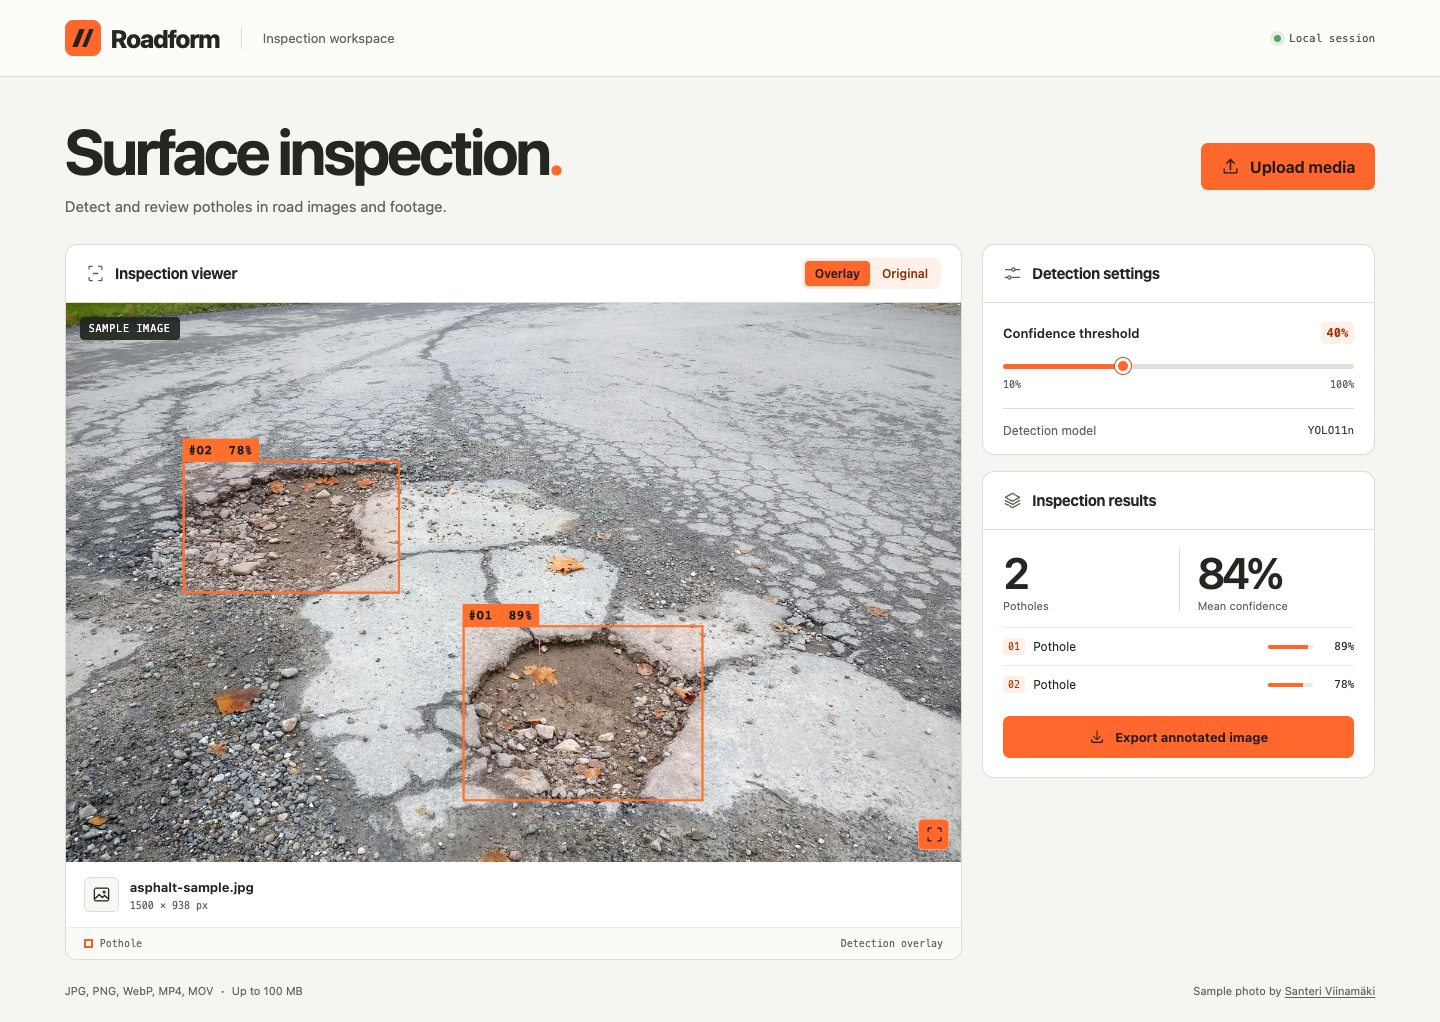
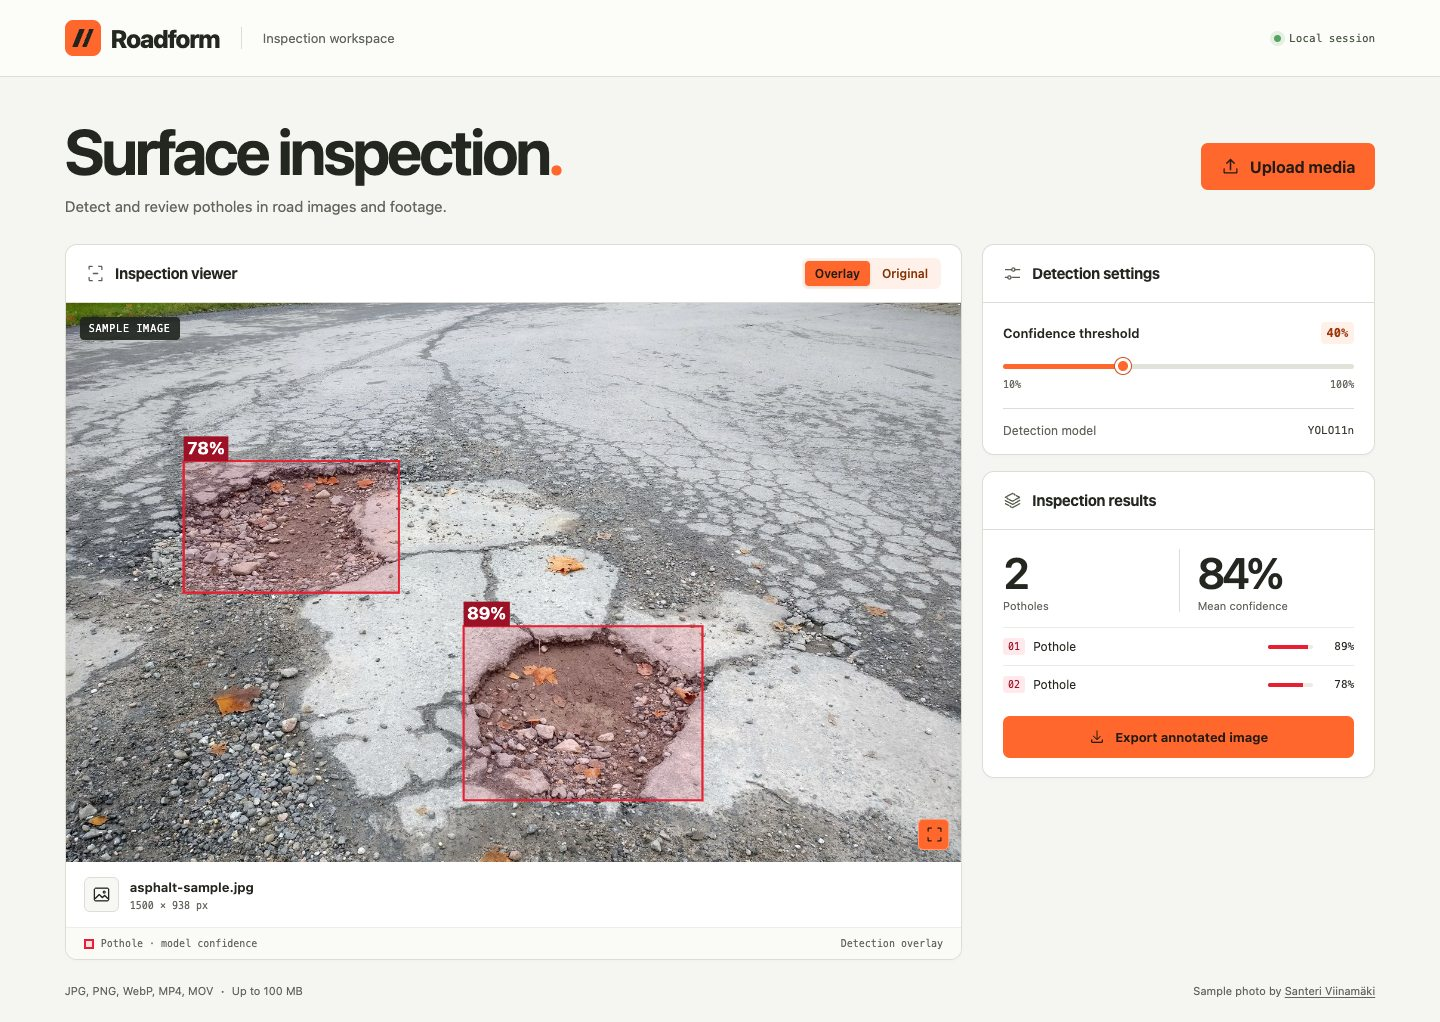
Show confidence on red pothole highlights in images and video

diff --git a/static/style.css b/static/style.css
@@ -25,12 +25,14 @@ body{margin:0}button,input{font:inherit}button{cursor:pointer}button:focus-visib
 .layout{display:grid;grid-template-columns:minmax(0,1fr) minmax(285px,30%);gap:20px;align-items:start}.card{background:#fff;border:1px solid var(--line);border-radius:12px;overflow:hidden;box-shadow:0 2px 3px #24272004}.panel-head{display:flex;align-items:center;justify-content:space-between;min-height:58px;padding:12px 20px;gap:12px;border-bottom:1px solid var(--line)}h2{display:flex;align-items:center;gap:10px;font-size:15px;letter-spacing:-.025em;font-weight:680;margin:0}.panel-head .icon{color:#596051}.segmented{background:#fff1e9;border-radius:6px;padding:3px;display:flex;gap:2px}.segmented button{padding:5px 10px;border:0;border-radius:4px;background:transparent;color:var(--orange-ink);font-size:12px;font-weight:600}.segmented button[aria-pressed=true]{color:var(--button-ink);background:var(--orange);box-shadow:0 1px 3px #20261f26}
 .stage{position:relative;background:#20251f;aspect-ratio:1.60;display:grid;place-items:center;overflow:hidden}.stage canvas,.stage video{display:block;width:100%;height:100%;object-fit:contain;position:absolute;inset:0}.sample-tag{position:absolute;background:#20251eea;color:#fff}.sample-tag{left:14px;top:14px;font:10px var(--mono);text-transform:uppercase;letter-spacing:.08em;padding:6px 9px;border-radius:4px}.full{position:absolute;background:var(--orange);color:var(--button-ink);right:12px;bottom:12px;display:grid;place-items:center;width:31px;height:31px;border:1px solid #ffffff52;border-radius:5px}.stage:fullscreen{width:100%;height:100%;background:#111}.stage:has(video:not([hidden])) .full{top:12px;bottom:auto}
 #busy{position:absolute;padding:10px 16px;background:#20251fee;color:#fff;border-radius:5px;font-size:13px}.source{display:flex;align-items:center;gap:11px;padding:15px 18px}.source>div{min-width:0}.file-icon{width:35px;height:35px;display:grid;place-items:center;border:1px solid var(--line);border-radius:6px;background:#f7f8f3}.source strong,.source span#dimensions{display:block}.source strong{font-size:13px;font-weight:650;overflow-wrap:anywhere}.source #dimensions{font:10px var(--mono);color:var(--muted);margin-top:5px}.text-button{margin-left:auto;flex:none;background:transparent;color:var(--orange-ink);border:0;text-decoration:underline;text-underline-offset:3px;font-size:12px}
-.viewer-foot{border-top:1px solid #eceee6;background:#fafbf7;display:flex;justify-content:space-between;align-items:center;padding:10px 18px;font:10px var(--mono);color:var(--muted)}.viewer-foot span:first-child{display:flex;align-items:center;gap:7px}.orange-square{width:9px;height:9px;border:2px solid #ee632a}
+.viewer-foot{border-top:1px solid #eceee6;background:#fafbf7;display:flex;justify-content:space-between;align-items:center;padding:10px 18px;font:10px var(--mono);color:var(--muted)}.viewer-foot span:first-child{display:flex;align-items:center;gap:7px}.detection-swatch{width:10px;height:10px;border:2px solid #e61f32;background:#fbdfe2}
 aside{display:grid;gap:16px}.setting-content{padding:19px 20px 16px}.label-row,.model,.scale{display:flex;align-items:center;justify-content:space-between}.label-row label{font-size:13px;font-weight:600}.label-row output{font:600 12px var(--mono);color:#9b370d;background:#fff0e8;border-radius:4px;padding:4px 6px}
 input[type=range]{appearance:none;width:100%;height:5px;border-radius:5px;background:linear-gradient(to right,var(--orange) var(--fill,33.33%),#e1e3db var(--fill,33.33%));margin:20px 0 10px;padding:0;display:block;cursor:pointer}
 input[type=range]::-webkit-slider-thumb{appearance:none;width:16px;height:16px;border:3px solid #fff;background:var(--orange);border-radius:50%;box-shadow:0 0 0 1px #d15320}
 input[type=range]::-moz-range-thumb{width:11px;height:11px;border:3px solid white;border-radius:50%;background:var(--orange);box-shadow:0 0 0 1px #d15320}
 .scale{font:10px var(--mono);color:var(--muted)}.model{margin-top:18px;padding-top:14px;border-top:1px solid var(--line);font-size:12px;color:var(--muted)}.model code{font:11px var(--mono);color:#353c30}.settings .wide{margin-top:14px}
-.stats{display:grid;grid-template-columns:1fr 1fr;padding:19px 20px 15px}.stats>div+div{border-left:1px solid var(--line);padding-left:18px}.stats strong,.stats span{display:block}.stats strong{font-size:clamp(31px,3vw,45px);line-height:1.1;letter-spacing:-.07em;font-weight:580;font-variant-numeric:tabular-nums}.stats span{font-size:11px;color:var(--muted);margin-top:3px}.detections{margin:0 20px;max-height:190px;overflow:auto}.detection{display:grid;grid-template-columns:auto 1fr 45px 33px;gap:8px;align-items:center;padding:10px 0;border-top:1px solid #e9ebe4;font-size:12px}.detection code{font:10px var(--mono);color:#9e3b12;background:#fff0e7;border-radius:3px;padding:3px 5px}.bar{height:4px;background:#eeeae4;border-radius:2px;overflow:hidden}.bar i{display:block;background:var(--orange);height:100%}.detection small{text-align:right;font:11px var(--mono)}.note{font-size:12px;color:var(--muted);line-height:1.5}.export-wrap{padding:13px 20px 19px}footer{margin:24px 0;display:flex;gap:12px;justify-content:space-between;font-size:11px;color:var(--muted)}footer b{margin:0 4px}a{color:inherit;text-underline-offset:2px}#notice{padding:12px 14px;background:#fff1e7;border:1px solid #ecba9a;border-radius:6px;font-size:14px}
+.stats{display:grid;grid-template-columns:1fr 1fr;padding:19px 20px 15px}.stats>div+div{border-left:1px solid var(--line);padding-left:18px}.stats strong,.stats span{display:block}.stats strong{font-size:clamp(31px,3vw,45px);line-height:1.1;letter-spacing:-.07em;font-weight:580;font-variant-numeric:tabular-nums}.stats span{font-size:11px;color:var(--muted);margin-top:3px}.detections{margin:0 20px;max-height:190px;overflow:auto}.detection{display:grid;grid-template-columns:auto 1fr 45px 33px;gap:8px;align-items:center;padding:10px 0;border-top:1px solid #e9ebe4;font-size:12px}.detection code{font:10px var(--mono);color:#9c1125;background:#ffe9ec;border-radius:3px;padding:3px 5px}.bar{height:4px;background:#eeeae4;border-radius:2px;overflow:hidden}.bar i{display:block;background:#e61f32;height:100%}.detection small{text-align:right;font:11px var(--mono)}.note{font-size:12px;color:var(--muted);line-height:1.5}.export-wrap{padding:13px 20px 19px}footer{margin:24px 0;display:flex;gap:12px;justify-content:space-between;font-size:11px;color:var(--muted)}footer b{margin:0 4px}a{color:inherit;text-underline-offset:2px}#notice{padding:12px 14px;background:#fff1e7;border:1px solid #ecba9a;border-radius:6px;font-size:14px}
 @media(max-width:820px){.shell{width:calc(100% - 32px)}.layout{grid-template-columns:1fr}aside{grid-template-columns:1fr 1fr;align-items:start}.intro{margin:29px 0 23px}.masthead{height:64px}}
 @media(max-width:580px){.header-divider,.workspace-name{display:none}.intro{align-items:start;flex-direction:column;gap:15px}.intro p{font-size:13px}.primary{padding:11px 14px;font-size:14px}.panel-head{padding:10px 13px}.layout{gap:14px}aside{grid-template-columns:1fr}.stage{aspect-ratio:1.48}.segmented button{padding:5px 7px}footer{flex-direction:column;margin:18px 0}.stats strong{font-size:37px}}
+
+.stage.portrait:not(:fullscreen){aspect-ratio:auto;height:clamp(380px,65vh,700px)}

diff --git a/static/workbench.js b/static/workbench.js
@@ -43,23 +43,34 @@ function paint(target, overlay) {
   const ctx = target.getContext('2d');
   ctx.drawImage(sourceImage, 0, 0);
   if (!overlay) return;
-  const unit = Math.max(0.7, Math.max(width, height) / 800);
-  ctx.lineWidth = 2 * unit;
-  ctx.font = 'bold ' + 12 * unit + 'px monospace';
-  visibleBoxes().forEach(([left, top, right, bottom, score], index) => {
-    ctx.fillStyle = 'rgba(255,106,46,.09)';
+  const fontSize = Math.max(14, width / 58, height / 32);
+  const padding = Math.ceil(fontSize / 5);
+  ctx.lineWidth = Math.max(2, fontSize / 8);
+  ctx.font = 'bold ' + fontSize + 'px system-ui, sans-serif';
+  const hits = visibleBoxes();
+  for (const [left, top, right, bottom] of hits) {
+    ctx.fillStyle = 'rgba(230,31,50,.14)';
     ctx.fillRect(left, top, right - left, bottom - top);
-    ctx.strokeStyle = '#ff702d';
+    ctx.strokeStyle = '#e61f32';
     ctx.strokeRect(left, top, right - left, bottom - top);
-    const label = '#' + String(index + 1).padStart(2, '0') + '  ' + Math.round(score * 100) + '%';
-    const labelWidth = ctx.measureText(label).width + unit * 11;
-    const labelX = Math.max(0, Math.min(left - unit, width - labelWidth));
-    const labelY = Math.max(0, top - 20 * unit);
-    ctx.fillStyle = '#ff702d';
-    ctx.fillRect(labelX, labelY, labelWidth, 20 * unit);
-    ctx.fillStyle = '#161b15';
-    ctx.fillText(label, labelX + 5 * unit, labelY + 14 * unit);
-  });
+  }
+  const occupied = [];
+  for (const [left, top, , bottom, score] of hits) {
+    const label = Math.round(score * 100) + '%';
+    const w = ctx.measureText(label).width + 2 * padding;
+    const h = fontSize + 2 * padding;
+    const x = Math.max(0, Math.min(left, width - w));
+    const candidates = [top - h, bottom, top].map(y => Math.max(0, Math.min(y, height - h)));
+    const y = candidates.find(y => occupied.every(rect =>
+      x + w <= rect.left || x >= rect.right || y + h <= rect.top || y >= rect.bottom
+    )) ?? candidates[2];
+    occupied.push({left:x, top:y, right:x + w, bottom:y + h});
+    ctx.fillStyle = '#9c1125';
+    ctx.fillRect(x, y, w, h);
+    ctx.fillStyle = '#fff';
+    ctx.textBaseline = 'middle';
+    ctx.fillText(label, x + padding, y + h / 2);
+  }
 }
 
 function note(text) {
@@ -151,6 +162,7 @@ async function openMedia(selected) {
   file = selected;
   sourceUrl = file ? URL.createObjectURL(file) : '/static/sample-road.jpg';
   isClip = Boolean(file && /\.(mp4|mov)$/i.test(file.name));
+  byId('stage').classList.remove('portrait');
   ready = false;
   showOverlay = !isClip;
   sourceImage = null;
@@ -174,6 +186,7 @@ async function openMedia(selected) {
     const response = file ? fetch('/api/inspect', {method:'POST', body:payload()}) : fetch('/api/sample');
     const [result] = await Promise.all([response.then(checked).then(r => r.json()), img.decode()]);
     sourceImage = img;
+    byId('stage').classList.toggle('portrait', img.naturalHeight > img.naturalWidth);
     boxes = result.boxes;
     byId('dimensions').textContent = result.width + ' × ' + result.height + ' px';
     ready = true;
@@ -205,6 +218,9 @@ async function analyzeClip() {
   }
 }
 
+video.addEventListener('loadedmetadata', () => {
+  if (isClip) byId('stage').classList.toggle('portrait', video.videoHeight > video.videoWidth);
+});
 byId('uploadBtn').onclick = () => byId('upload').click();
 byId('upload').onchange = event => {
   const selected = event.target.files[0];

diff --git a/templates/index.html b/templates/index.html
@@ -39,7 +39,7 @@
         <button id="full" class="full" aria-label="Toggle full screen" title="Toggle full screen">{{ icon('expand') }}</button>
       </div>
       <div class="source"><span class="file-icon">{{ icon('file') }}</span><div><strong id="filename">asphalt-sample.jpg</strong><span id="dimensions">Road image</span></div><button id="reset" class="text-button" hidden>Open sample</button></div>
-      <div class="viewer-foot"><span><i class="orange-square"></i>Pothole</span><span id="overlayInfo">Detection overlay</span></div>
+      <div class="viewer-foot"><span><i class="detection-swatch"></i>Pothole · model confidence</span><span id="overlayInfo">Detection overlay</span></div>
     </section>
     <aside>
       <section class="card settings">

diff --git a/app.py b/app.py
@@ -64,14 +64,41 @@ def sample():
 
 
 def draw_frame(frame, boxes):
+    # FFmpeg supplies RGB frames. Only the inference copy is converted to BGR.
     height, width = frame.shape[:2]
-    thickness = max(2, round(min(width, height) / 330))
+    red = (230, 31, 50)
+    font = cv2.FONT_HERSHEY_SIMPLEX
+    text_height = max(12, round(max(width / 72, height / 39)))
+    weight = max(1, round(text_height / 10))
+    scale = cv2.getFontScaleFromHeight(font, text_height, weight)
+    stroke = max(2, round(text_height / 8))
+    pad = max(3, round(text_height / 5))
+    labels = []
     for x1, y1, x2, y2, score, _ in boxes:
-        corner = (int(x1), int(y1))
-        cv2.rectangle(frame, corner, (int(x2), int(y2)), (255, 103, 39), thickness)
-        cv2.putText(frame, f"Pothole {score:.0%}", (corner[0], max(18, corner[1] - 6)),
-                    cv2.FONT_HERSHEY_SIMPLEX, thickness / 4, (255, 103, 39),
-                    max(1, thickness // 2), cv2.LINE_AA)
+        left, top = max(0, int(x1)), max(0, int(y1))
+        right, bottom = min(width, math.ceil(x2)), min(height, math.ceil(y2))
+        if right <= left or bottom <= top:
+            continue
+        area = frame[top:bottom, left:right]
+        cv2.addWeighted(area, 0.86, np.full_like(area, red), 0.14, 0, dst=area)
+        cv2.rectangle(frame, (left, top), (right - 1, bottom - 1), red, stroke)
+        labels.append((left, top, bottom, f"{score:.0%}"))
+
+    occupied = []
+    for left, top, bottom, label in labels:
+        (tw, th), baseline = cv2.getTextSize(label, font, scale, weight)
+        w, h = tw + 2 * pad, th + baseline + 2 * pad
+        x = max(0, min(left, width - w))
+        # Prefer the top edge, then try below or inside a crowded box.
+        for candidate in (top - h, bottom, top):
+            y = max(0, min(candidate, height - h))
+            if all(x + w <= x0 or x >= x1 or y + h <= y0 or y >= y1
+                   for x0, y0, x1, y1 in occupied):
+                break
+        occupied.append((x, y, x + w, y + h))
+        cv2.rectangle(frame, (x, y), (x + w - 1, y + h - 1), (156, 17, 37), cv2.FILLED)
+        cv2.putText(frame, label, (x + pad, y + pad + th), font, scale,
+                    (255, 255, 255), weight, cv2.LINE_AA)
 
 
 def video_result(upload, confidence):

diff --git a/README.md b/README.md
@@ -2,7 +2,7 @@
 
 Roadform detects potholes in road photographs and recorded dashcam footage. It runs on your computer and opens in a browser, where you can review each detection, adjust the confidence threshold, and export annotated media.
 
-![Roadform showing two potholes outlined in orange, the confidence slider, and the inspection results](docs/inspection-workspace.jpg)
+![Roadform showing two potholes outlined in red, the confidence slider, and the inspection results](docs/inspection-workspace.jpg)
 
 ## Quick start
 
@@ -33,7 +33,7 @@ Open [Roadform on localhost](http://127.0.0.1:8080). The server listens on the l
 
 ## Try an inspection
 
-The sample opens at 40% confidence with two potholes outlined. Raise the threshold to 85% and only the higher-confidence detection remains. Select **Original** to compare the markings with the road surface.
+Each red box highlights a predicted pothole. Its percentage is the model’s confidence for that detection in the image or video frame. The sample opens at a 40% threshold with two potholes outlined. Raise the threshold to 85% and only the higher-confidence detection remains. Select **Original** to compare the markings with the road surface.
 
 | Input | How to inspect it | Export |
 | --- | --- | --- |
